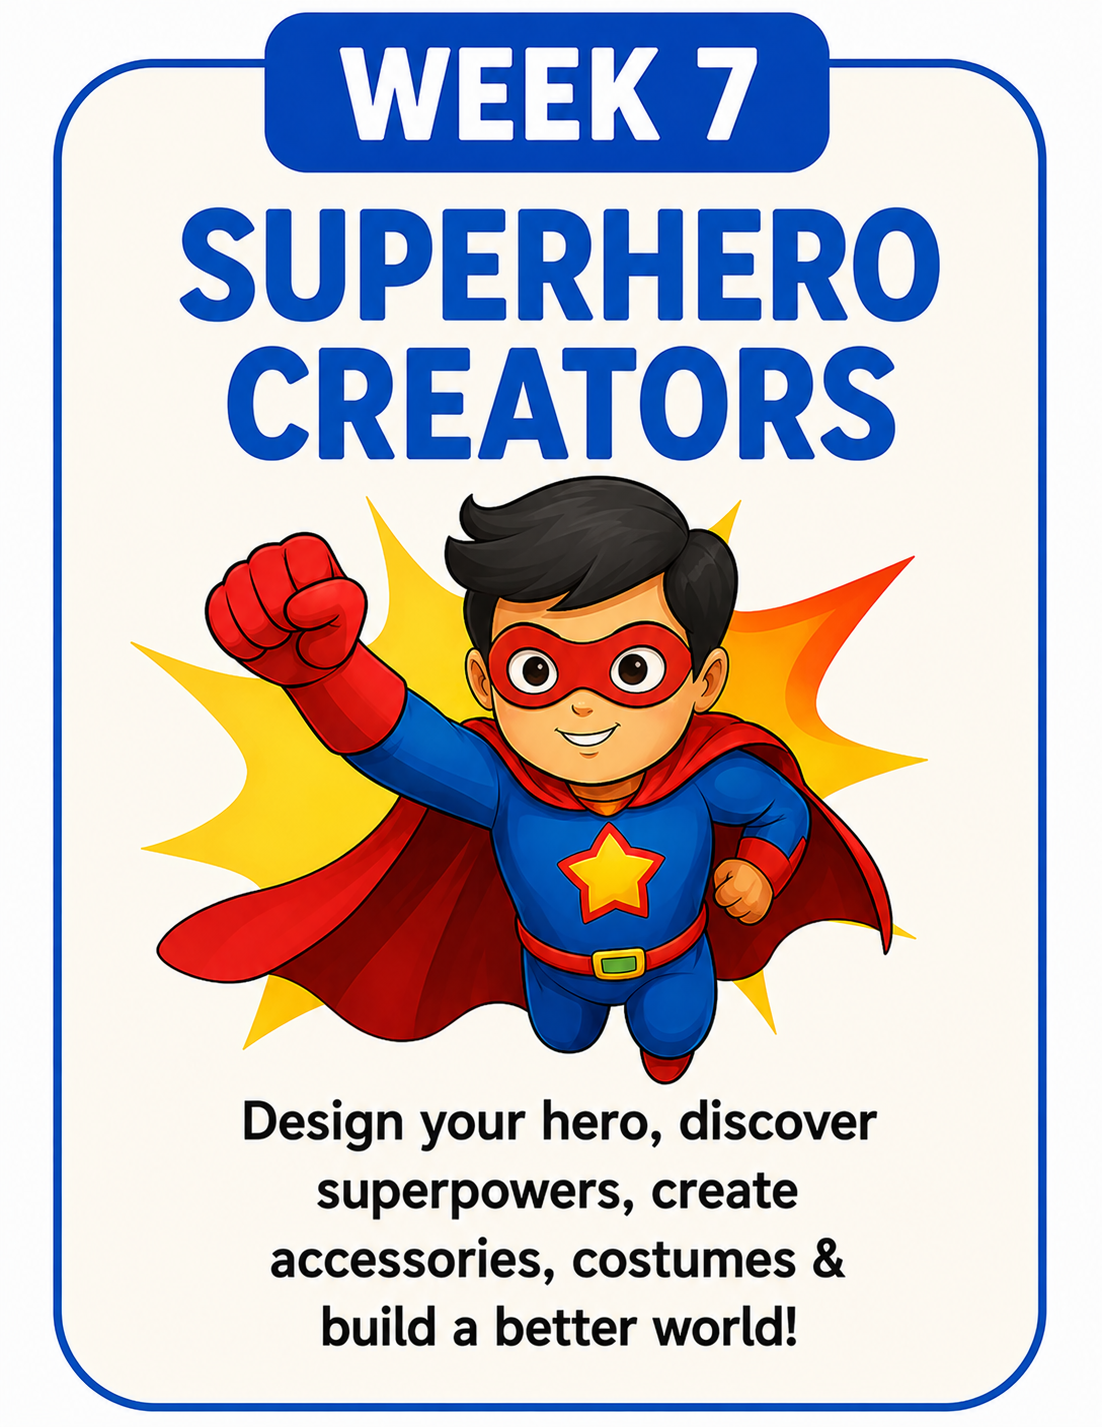
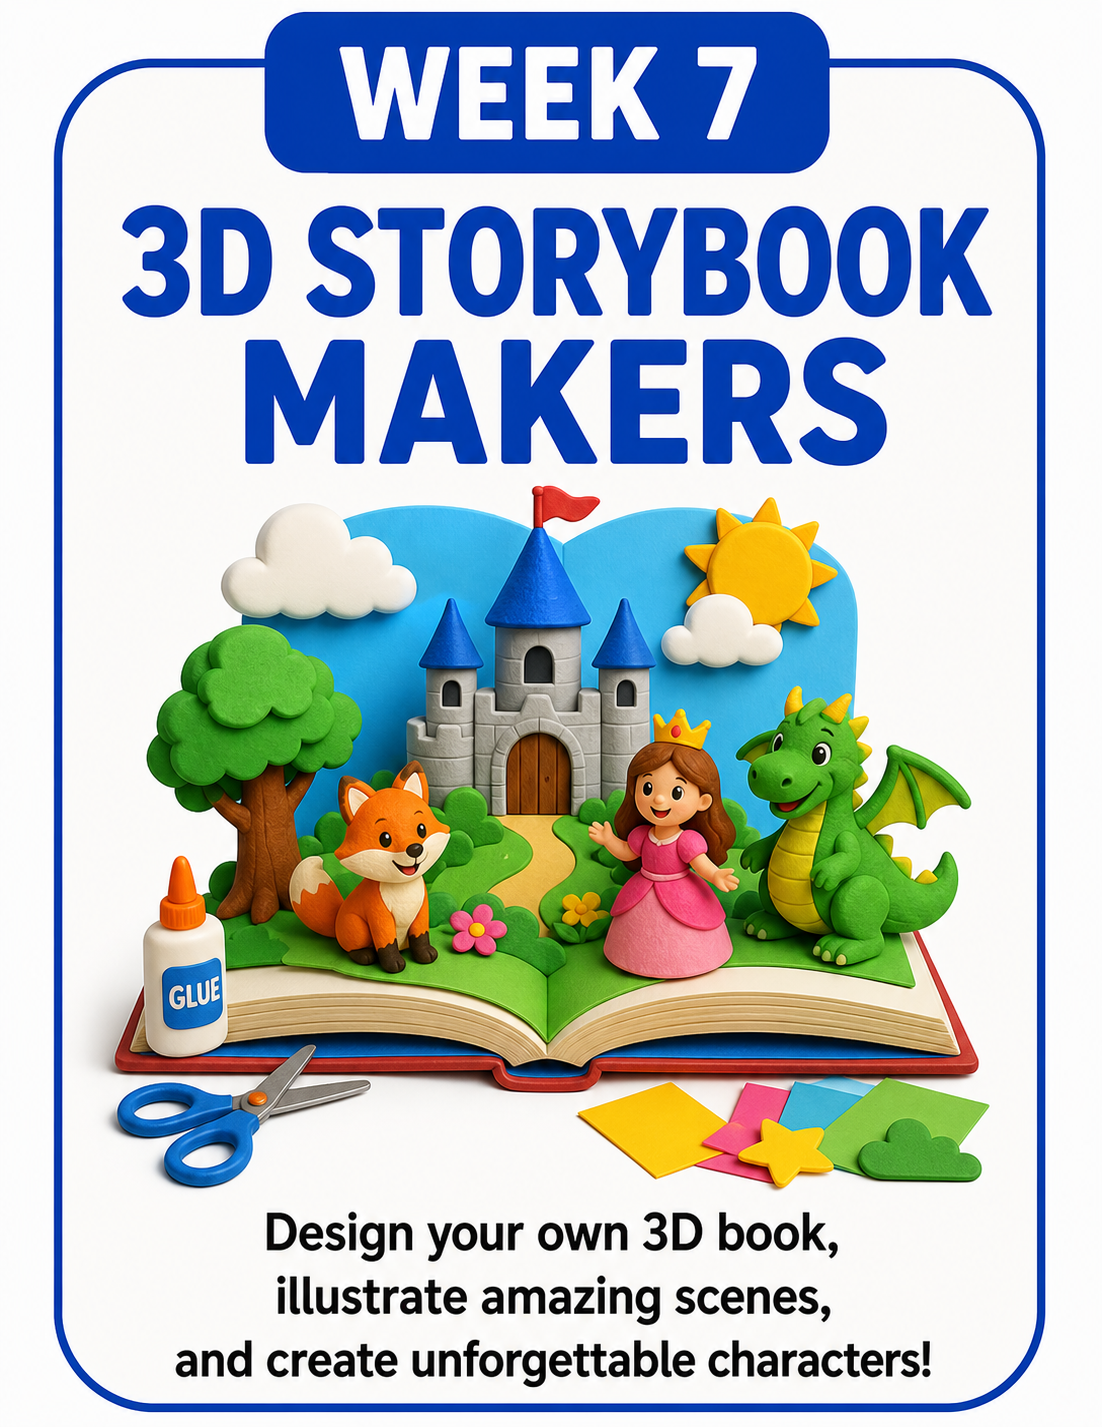
Update summer camp cards and closed weeks

diff --git a/summer-camp/index.html b/summer-camp/index.html
@@ -59,16 +59,6 @@
                                 <span>10 AM-12 PM or 1-3 PM</span>
                             </div>
                         </div>
-                        <section class="summer-week-section" aria-labelledby="open-weeks-title">
-                            <div class="summer-week-section-head">
-                                <div>
-                                    <p class="summer-camp-summary-label">Open For Registration</p>
-                                    <h2 id="open-weeks-title" class="summer-week-section-title">Available August Sessions</h2>
-                                </div>
-                                <p class="summer-week-section-note">Choose morning, afternoon, or both for any open week.</p>
-                            </div>
-                            <div class="summer-camp-grid summer-camp-grid--open" data-summer-open-grid></div>
-                        </section>
                         <section class="summer-week-section summer-week-section--closed" aria-labelledby="closed-weeks-title">
                             <div class="summer-week-section-head">
                                 <div>
@@ -78,6 +68,16 @@
                                 <p class="summer-week-section-note">These weeks have already ended.</p>
                             </div>
                             <div class="summer-camp-grid summer-camp-grid--closed" data-summer-closed-grid></div>
+                        </section>
+                        <section class="summer-week-section" aria-labelledby="open-weeks-title">
+                            <div class="summer-week-section-head">
+                                <div>
+                                    <p class="summer-camp-summary-label">Open For Registration</p>
+                                    <h2 id="open-weeks-title" class="summer-week-section-title">Available August Sessions</h2>
+                                </div>
+                                <p class="summer-week-section-note">Choose morning, afternoon, or both for any open week.</p>
+                            </div>
+                            <div class="summer-camp-grid summer-camp-grid--open" data-summer-open-grid></div>
                         </section>
                     </div>
                     <aside class="summer-cart" aria-live="polite">

diff --git a/styles.css b/styles.css
@@ -3360,6 +3360,7 @@ body.movement-theme .custom-time-note {
 }
 
 .summer-week-preview {
+    position: relative;
     display: flex;
     align-items: center;
     justify-content: center;
@@ -3451,6 +3452,26 @@ body.movement-theme .custom-time-note {
 
 .summer-week-card.is-closed .summer-week-preview {
     background: #f4f4f5;
+}
+
+.summer-week-status-badge {
+    position: absolute;
+    top: 16px;
+    left: 16px;
+    z-index: 1;
+    display: inline-flex;
+    align-items: center;
+    justify-content: center;
+    padding: 7px 12px;
+    border-radius: 999px;
+    background: rgba(185, 28, 28, 0.92);
+    color: #ffffff;
+    font-family: 'Fredoka', cursive;
+    font-size: 13px;
+    font-weight: 700;
+    letter-spacing: 0.08em;
+    text-transform: uppercase;
+    box-shadow: 0 8px 18px rgba(127, 29, 29, 0.22);
 }
 
 .summer-week-headline {
@@ -3575,7 +3596,7 @@ body.movement-theme .custom-time-note {
 .summer-week-closed-pill {
     width: 100%;
     padding: 12px 16px;
-    background: linear-gradient(135deg, #94a3b8, #64748b);
+    background: linear-gradient(135deg, #b91c1c, #dc2626);
     color: #ffffff;
 }
 

diff --git a/summer-camp/shop.js b/summer-camp/shop.js
@@ -57,6 +57,7 @@ document.addEventListener('DOMContentLoaded', function() {
 
             card.innerHTML = `
                 <a class="summer-week-preview" href="../assets/week${week.id}.png" target="_blank" rel="noopener">
+                    ${week.closed ? '<span class="summer-week-status-badge">Ended</span>' : ''}
                     <img src="../assets/week${week.id}.png" alt="SparkPreneurs Summer Camp Week ${week.id} design" class="summer-week-image">
                 </a>
                 <div class="summer-week-body">
@@ -81,7 +82,7 @@ document.addEventListener('DOMContentLoaded', function() {
                             `}
                     </div>
                     ${week.closed
-                        ? '<div class="summer-week-closed-pill">Closed</div>'
+                        ? '<div class="summer-week-closed-pill">Ended</div>'
                         : `
                             <div class="summer-week-session-grid">
                                 <button class="summer-week-session-button" type="button" data-session="AM">
